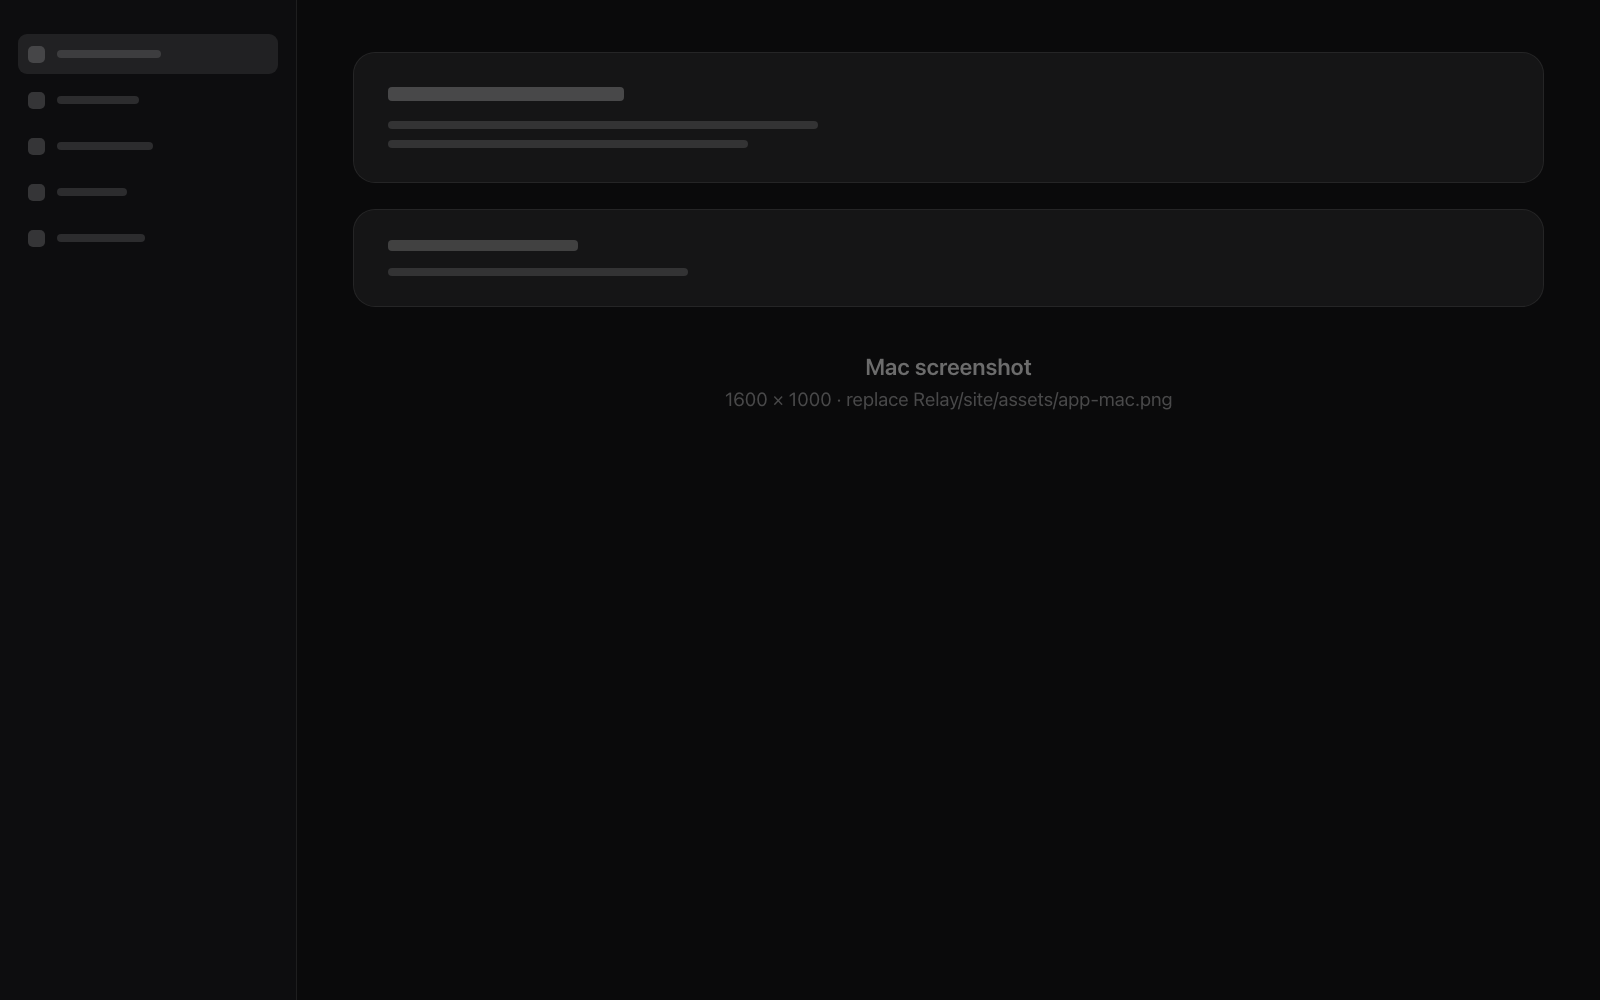
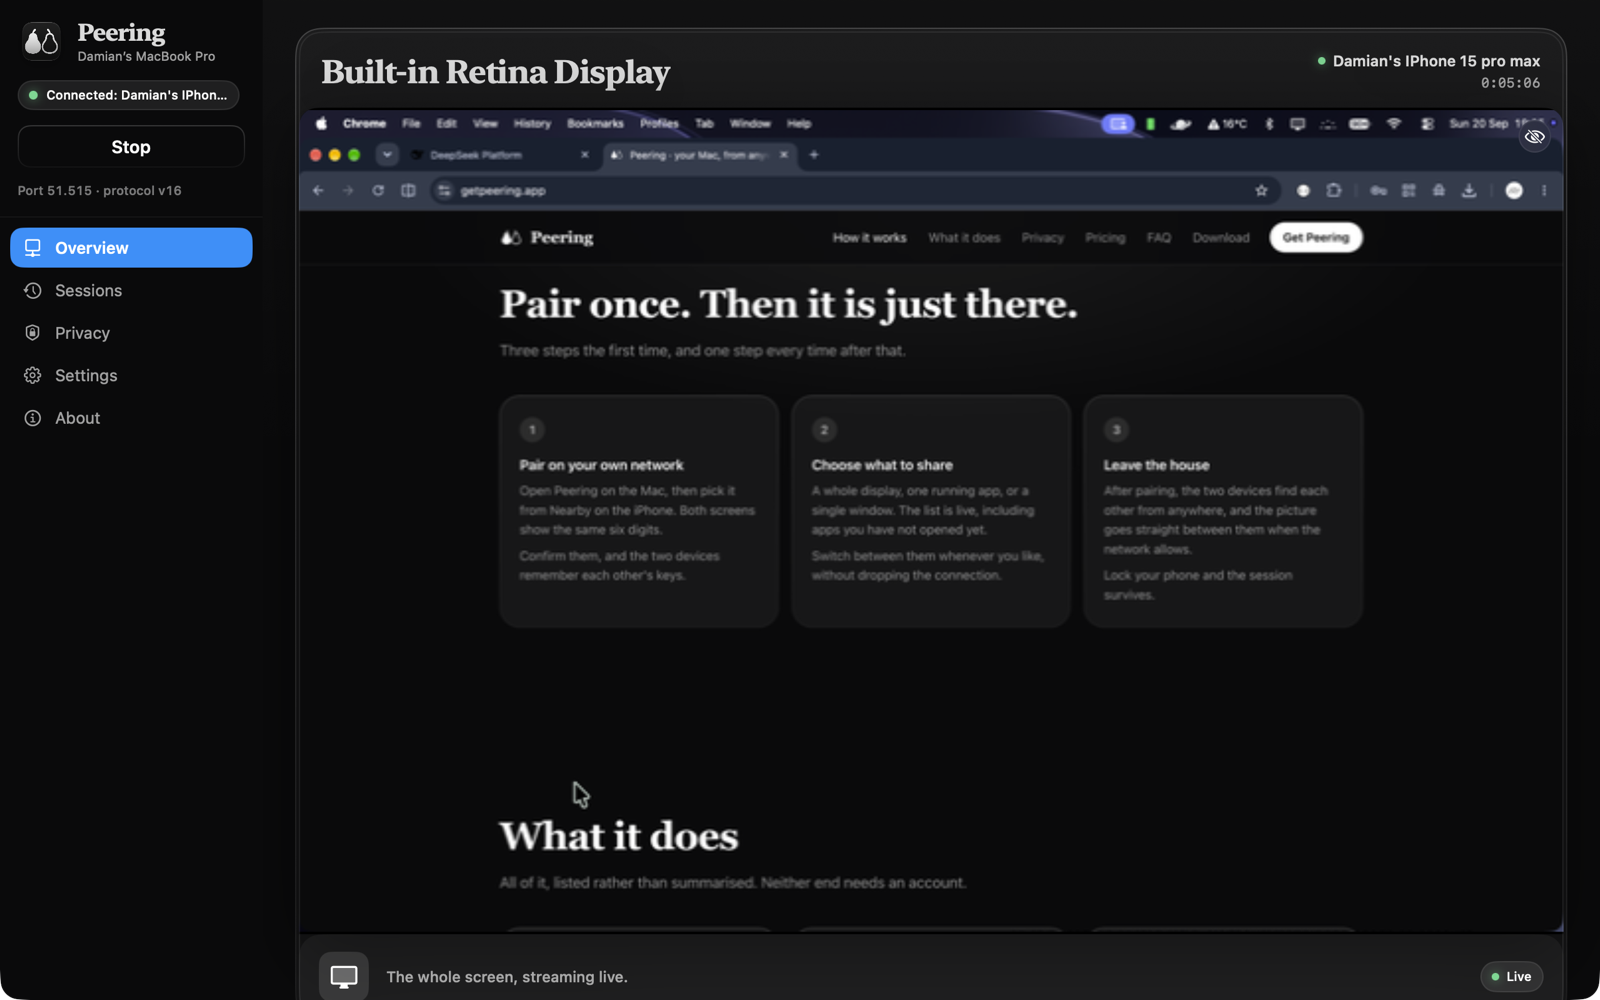
Put a real capture of the host app in the Mac frame
The hero's Mac was showing a wireframe with a note in it saying it was one.
It now shows the host app with a phone connected, which is the state the
other half of the hero is in and the only state in which the picture means
anything.

It is the window's content area and not the window: the title bar, the
traffic lights and the desktop around them are gone, because the frame draws
a MacBook and the image is what that machine is displaying. The window was
resized first so that the content is 16:10, which is the proportion of the
display the frame draws, so nothing is clipped at the edges.

Two things in it are worth a second look before this is deployed: the sidebar
names the Mac and the session header names the phone, and the live preview
inside the app is showing a browser with this site open.

diff --git a/Relay/site/index.html b/Relay/site/index.html
@@ -71,13 +71,15 @@
       <!-- Two real screenshots, in drawn frames rather than rendered ones: the two ends of one
            product, the Mac it reaches and the phone it reaches from.
 
-           assets/app-mac.png is a placeholder until a capture of the host app replaces it, cut to
-           16:10, which is the proportion of the display the frame draws. Anything else letterboxes. -->
+           app-mac.png is a capture of the host window's content, with the window's own title bar
+           and traffic lights cropped off because the frame draws the machine and not the window.
+           It is 16:10, the proportion of the display the frame draws; anything else is clipped by
+           the screen rather than shown whole. -->
       <div class="stage">
         <div class="mac" aria-label="The Peering host app on a Mac">
           <div class="mac-lid">
             <div class="mac-screen">
-              <img src="/assets/app-mac.png" alt="Peering on Mac: the host app, with its sidebar and the Connect pane." width="1600" height="1000">
+              <img src="/assets/app-mac.png" alt="Peering on Mac: the host app with a phone connected, showing the Mac's screen streaming live." width="1600" height="1000">
             </div>
             <div class="mac-camera" aria-hidden="true"></div>
           </div>
